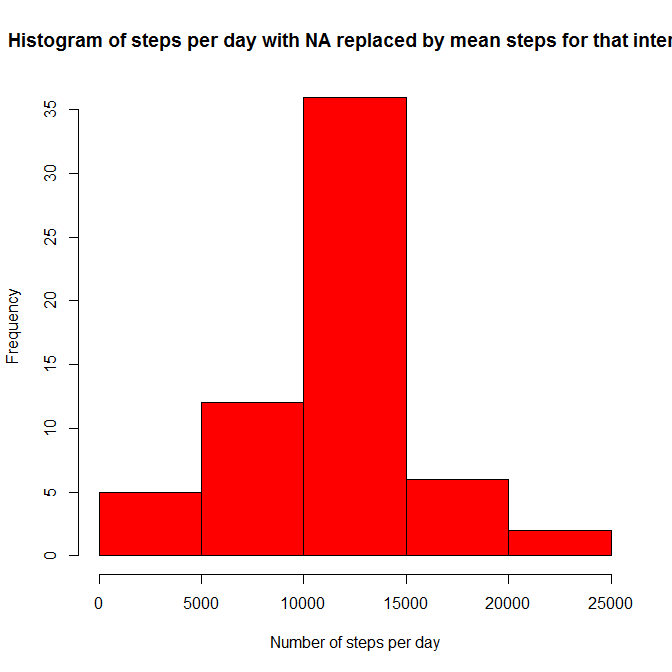
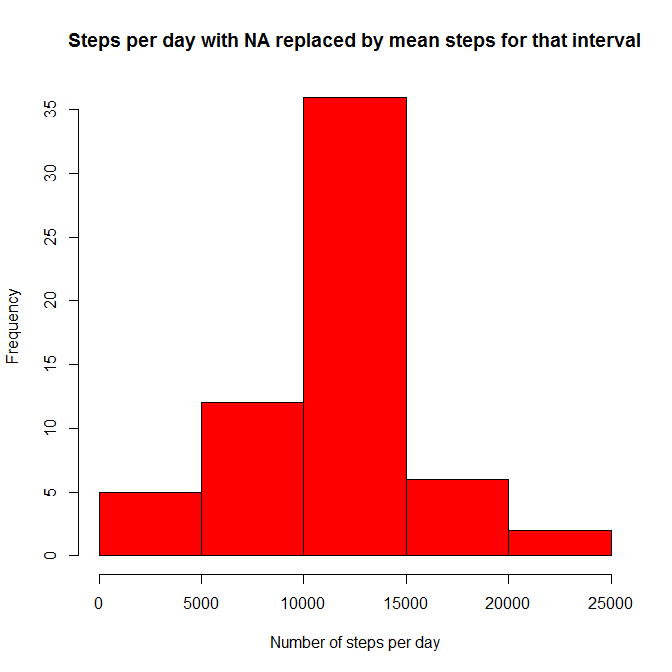
Shortened 2nd histogram title

Changed region(s): [[0.0, 0.0312, 1.0, 0.0938]]

diff --git a/PA1_template.html b/PA1_template.html
@@ -156,8 +156,8 @@ a2PerDay &lt;-
         a2 %&gt;% group_by(date) %&gt;% summarise(totalSteps = sum(steps))
 hist(a2PerDay$totalSteps, col = &quot;red&quot;,
      xlab = &quot;Number of steps per day&quot;,
-     main = &quot;Histogram of steps per day with NA replaced by mean steps for that interval&quot;)</code></pre>
[1 lines of base64/hex data omitted]
+     main = &quot;Steps per day with NA replaced by mean steps for that interval&quot;)</code></pre>
[1 lines of base64/hex data omitted]
 <pre class="r"><code>mean(a2PerDay$totalSteps)</code></pre>
 <pre><code>## [1] 10766.19</code></pre>
 <pre class="r"><code>median(a2PerDay$totalSteps)</code></pre>

diff --git a/PA1_template.md b/PA1_template.md
@@ -127,7 +127,7 @@ a2PerDay <-
         a2 %>% group_by(date) %>% summarise(totalSteps = sum(steps))
 hist(a2PerDay$totalSteps, col = "red",
      xlab = "Number of steps per day",
-     main = "Histogram of steps per day with NA replaced by mean steps for that interval")
+     main = "Steps per day with NA replaced by mean steps for that interval")
 ```
 
 ![](PA1_template_files/figure-html/impute-1.png) 
